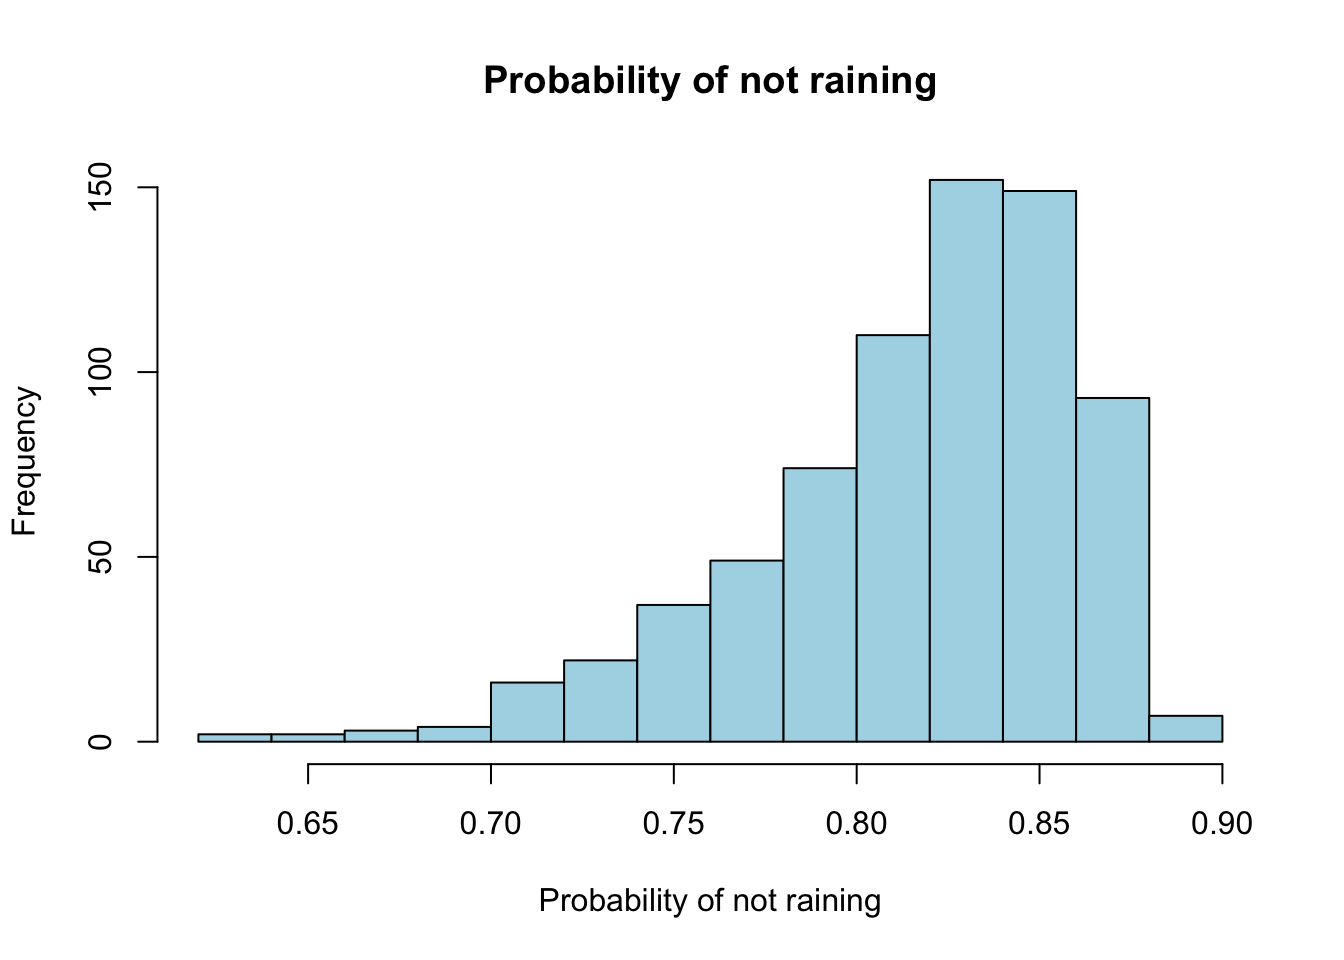
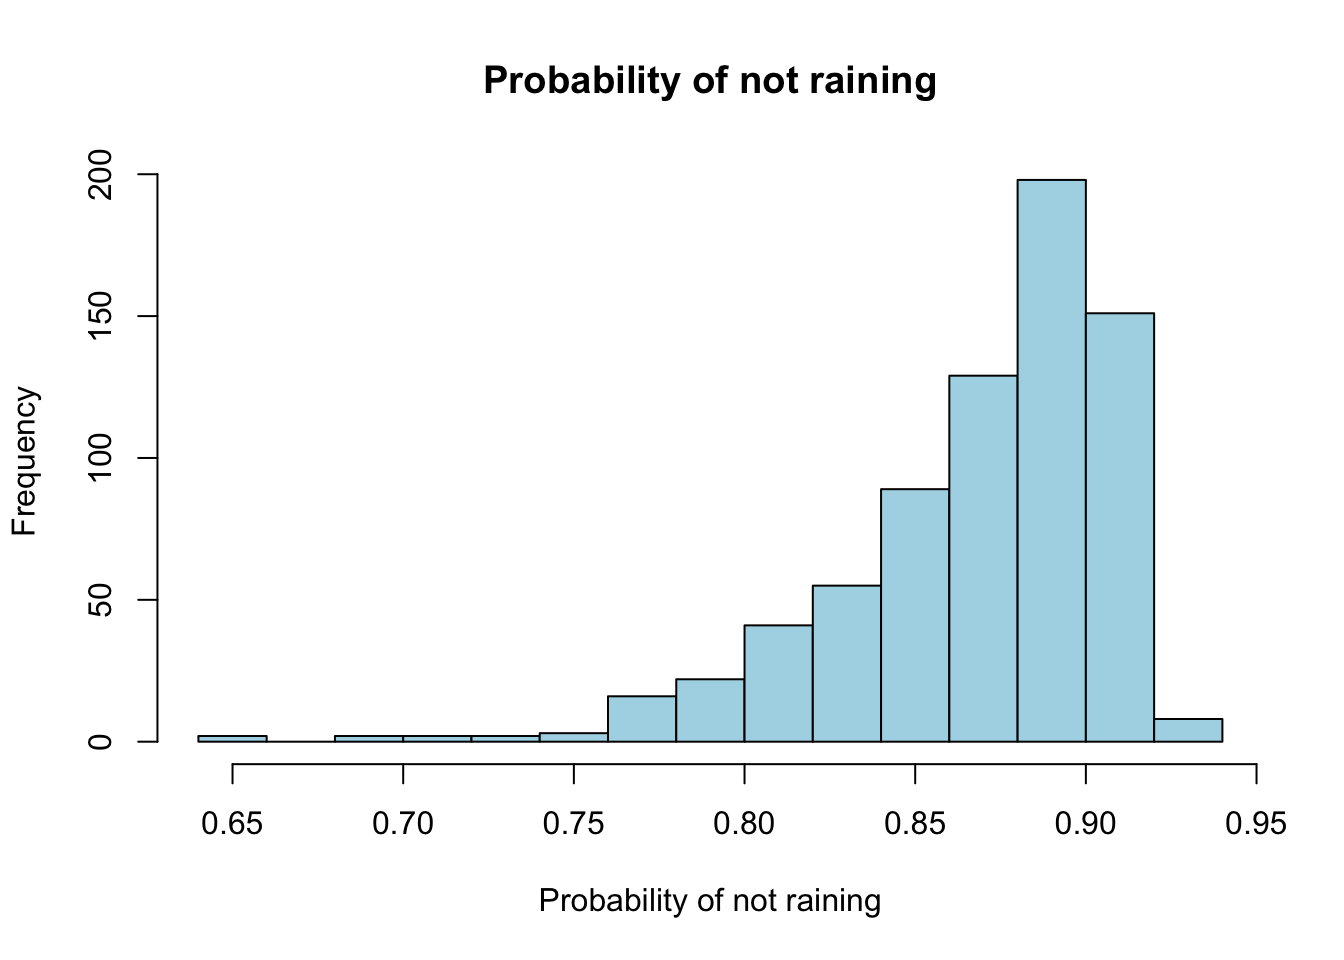
update final report

diff --git a/docs/STAT6393V/week-05/index.html b/docs/STAT6393V/week-05/index.html
@@ -472,29 +472,30 @@ This warning is displayed once per session.</code></pre>
 <span id="cb18-50"><a href="#cb18-50" aria-hidden="true" tabindex="-1"></a></span>
 <span id="cb18-51"><a href="#cb18-51" aria-hidden="true" tabindex="-1"></a>best_model <span class="ot">&lt;-</span> model_selection[<span class="dv">1</span>, ]</span>
 <span id="cb18-52"><a href="#cb18-52" aria-hidden="true" tabindex="-1"></a>best_model_name <span class="ot">&lt;-</span> best_model<span class="sc">$</span>model</span>
-<span id="cb18-53"><a href="#cb18-53" aria-hidden="true" tabindex="-1"></a>model <span class="ot">&lt;-</span> models[[best_model_name]]<span class="sc">$</span>fit</span>
-<span id="cb18-54"><a href="#cb18-54" aria-hidden="true" tabindex="-1"></a></span>
-<span id="cb18-55"><a href="#cb18-55" aria-hidden="true" tabindex="-1"></a>selection_sentence <span class="ot">&lt;-</span> <span class="fu">sprintf</span>(</span>
-<span id="cb18-56"><a href="#cb18-56" aria-hidden="true" tabindex="-1"></a>  <span class="fu">paste0</span>(</span>
-<span id="cb18-57"><a href="#cb18-57" aria-hidden="true" tabindex="-1"></a>    <span class="st">"The best model is %s, with %s hidden layers, %s neurons per layer, "</span>,</span>
-<span id="cb18-58"><a href="#cb18-58" aria-hidden="true" tabindex="-1"></a>    <span class="st">"%s epochs, and a batch size of %s. It was selected because it had "</span>,</span>
-<span id="cb18-59"><a href="#cb18-59" aria-hidden="true" tabindex="-1"></a>    <span class="st">"the smallest test-set negative log-likelihood (%.2f), which means "</span>,</span>
-<span id="cb18-60"><a href="#cb18-60" aria-hidden="true" tabindex="-1"></a>    <span class="st">"it assigned the highest probability to the observed precipitation "</span>,</span>
-<span id="cb18-61"><a href="#cb18-61" aria-hidden="true" tabindex="-1"></a>    <span class="st">"values in the testing set."</span></span>
-<span id="cb18-62"><a href="#cb18-62" aria-hidden="true" tabindex="-1"></a>  ),</span>
-<span id="cb18-63"><a href="#cb18-63" aria-hidden="true" tabindex="-1"></a>  best_model<span class="sc">$</span>model,</span>
-<span id="cb18-64"><a href="#cb18-64" aria-hidden="true" tabindex="-1"></a>  best_model<span class="sc">$</span>hidden_layers,</span>
-<span id="cb18-65"><a href="#cb18-65" aria-hidden="true" tabindex="-1"></a>  best_model<span class="sc">$</span>neurons_per_layer,</span>
-<span id="cb18-66"><a href="#cb18-66" aria-hidden="true" tabindex="-1"></a>  best_model<span class="sc">$</span>epochs,</span>
-<span id="cb18-67"><a href="#cb18-67" aria-hidden="true" tabindex="-1"></a>  best_model<span class="sc">$</span>batchsize,</span>
-<span id="cb18-68"><a href="#cb18-68" aria-hidden="true" tabindex="-1"></a>  best_model<span class="sc">$</span>test_nll</span>
-<span id="cb18-69"><a href="#cb18-69" aria-hidden="true" tabindex="-1"></a>)</span>
-<span id="cb18-70"><a href="#cb18-70" aria-hidden="true" tabindex="-1"></a></span>
-<span id="cb18-71"><a href="#cb18-71" aria-hidden="true" tabindex="-1"></a>knitr<span class="sc">::</span><span class="fu">kable</span>(</span>
-<span id="cb18-72"><a href="#cb18-72" aria-hidden="true" tabindex="-1"></a>  model_selection,</span>
-<span id="cb18-73"><a href="#cb18-73" aria-hidden="true" tabindex="-1"></a>  <span class="at">digits =</span> <span class="dv">3</span>,</span>
-<span id="cb18-74"><a href="#cb18-74" aria-hidden="true" tabindex="-1"></a>  <span class="at">caption =</span> <span class="st">"Model comparison using test-set log-likelihood. Models are ranked from best to worst by test negative log-likelihood."</span></span>
-<span id="cb18-75"><a href="#cb18-75" aria-hidden="true" tabindex="-1"></a>)</span></code><button title="Copy to Clipboard" class="code-copy-button"><i class="bi"></i></button></pre></div>
+<span id="cb18-53"><a href="#cb18-53" aria-hidden="true" tabindex="-1"></a>best_model_fit <span class="ot">&lt;-</span> models[[best_model_name]]<span class="sc">$</span>fit</span>
+<span id="cb18-54"><a href="#cb18-54" aria-hidden="true" tabindex="-1"></a>model <span class="ot">&lt;-</span> best_model_fit</span>
+<span id="cb18-55"><a href="#cb18-55" aria-hidden="true" tabindex="-1"></a></span>
+<span id="cb18-56"><a href="#cb18-56" aria-hidden="true" tabindex="-1"></a>selection_sentence <span class="ot">&lt;-</span> <span class="fu">sprintf</span>(</span>
+<span id="cb18-57"><a href="#cb18-57" aria-hidden="true" tabindex="-1"></a>  <span class="fu">paste0</span>(</span>
+<span id="cb18-58"><a href="#cb18-58" aria-hidden="true" tabindex="-1"></a>    <span class="st">"The best model is %s, with %s hidden layers, %s neurons per layer, "</span>,</span>
+<span id="cb18-59"><a href="#cb18-59" aria-hidden="true" tabindex="-1"></a>    <span class="st">"%s epochs, and a batch size of %s. It was selected because it had "</span>,</span>
+<span id="cb18-60"><a href="#cb18-60" aria-hidden="true" tabindex="-1"></a>    <span class="st">"the smallest test-set negative log-likelihood (%.2f), which means "</span>,</span>
+<span id="cb18-61"><a href="#cb18-61" aria-hidden="true" tabindex="-1"></a>    <span class="st">"it assigned the highest probability to the observed precipitation "</span>,</span>
+<span id="cb18-62"><a href="#cb18-62" aria-hidden="true" tabindex="-1"></a>    <span class="st">"values in the testing set."</span></span>
+<span id="cb18-63"><a href="#cb18-63" aria-hidden="true" tabindex="-1"></a>  ),</span>
+<span id="cb18-64"><a href="#cb18-64" aria-hidden="true" tabindex="-1"></a>  best_model<span class="sc">$</span>model,</span>
+<span id="cb18-65"><a href="#cb18-65" aria-hidden="true" tabindex="-1"></a>  best_model<span class="sc">$</span>hidden_layers,</span>
+<span id="cb18-66"><a href="#cb18-66" aria-hidden="true" tabindex="-1"></a>  best_model<span class="sc">$</span>neurons_per_layer,</span>
+<span id="cb18-67"><a href="#cb18-67" aria-hidden="true" tabindex="-1"></a>  best_model<span class="sc">$</span>epochs,</span>
+<span id="cb18-68"><a href="#cb18-68" aria-hidden="true" tabindex="-1"></a>  best_model<span class="sc">$</span>batchsize,</span>
+<span id="cb18-69"><a href="#cb18-69" aria-hidden="true" tabindex="-1"></a>  best_model<span class="sc">$</span>test_nll</span>
+<span id="cb18-70"><a href="#cb18-70" aria-hidden="true" tabindex="-1"></a>)</span>
+<span id="cb18-71"><a href="#cb18-71" aria-hidden="true" tabindex="-1"></a></span>
+<span id="cb18-72"><a href="#cb18-72" aria-hidden="true" tabindex="-1"></a>knitr<span class="sc">::</span><span class="fu">kable</span>(</span>
+<span id="cb18-73"><a href="#cb18-73" aria-hidden="true" tabindex="-1"></a>  model_selection,</span>
+<span id="cb18-74"><a href="#cb18-74" aria-hidden="true" tabindex="-1"></a>  <span class="at">digits =</span> <span class="dv">3</span>,</span>
+<span id="cb18-75"><a href="#cb18-75" aria-hidden="true" tabindex="-1"></a>  <span class="at">caption =</span> <span class="st">"Model comparison using test-set log-likelihood. Models are ranked from best to worst by test negative log-likelihood."</span></span>
+<span id="cb18-76"><a href="#cb18-76" aria-hidden="true" tabindex="-1"></a>)</span></code><button title="Copy to Clipboard" class="code-copy-button"><i class="bi"></i></button></pre></div>
 <div class="cell-output-display">
 <table class="caption-top table table-sm table-striped small">
 <caption>Model comparison using test-set log-likelihood. Models are ranked from best to worst by test negative log-likelihood.</caption>
@@ -533,12 +534,12 @@ This warning is displayed once per session.</code></pre>
 <td style="text-align: right;">100</td>
 <td style="text-align: right;">300</td>
 <td style="text-align: right;">10</td>
-<td style="text-align: right;">6.395</td>
-<td style="text-align: right;">6.584</td>
-<td style="text-align: right;">63</td>
-<td style="text-align: right;">-382.796</td>
-<td style="text-align: right;">382.796</td>
-<td style="text-align: right;">0.532</td>
+<td style="text-align: right;">6.408</td>
+<td style="text-align: right;">6.467</td>
+<td style="text-align: right;">1</td>
+<td style="text-align: right;">-376.141</td>
+<td style="text-align: right;">376.141</td>
+<td style="text-align: right;">0.522</td>
 </tr>
 <tr class="even">
 <td style="text-align: left;">model4</td>
@@ -546,12 +547,12 @@ This warning is displayed once per session.</code></pre>
 <td style="text-align: right;">100</td>
 <td style="text-align: right;">100</td>
 <td style="text-align: right;">12</td>
-<td style="text-align: right;">7.895</td>
-<td style="text-align: right;">7.559</td>
-<td style="text-align: right;">93</td>
-<td style="text-align: right;">-383.844</td>
-<td style="text-align: right;">383.844</td>
-<td style="text-align: right;">0.533</td>
+<td style="text-align: right;">7.877</td>
+<td style="text-align: right;">7.548</td>
+<td style="text-align: right;">86</td>
+<td style="text-align: right;">-376.668</td>
+<td style="text-align: right;">376.668</td>
+<td style="text-align: right;">0.523</td>
 </tr>
 <tr class="odd">
 <td style="text-align: left;">model1</td>
@@ -559,12 +560,12 @@ This warning is displayed once per session.</code></pre>
 <td style="text-align: right;">50</td>
 <td style="text-align: right;">100</td>
 <td style="text-align: right;">25</td>
-<td style="text-align: right;">16.673</td>
-<td style="text-align: right;">13.205</td>
-<td style="text-align: right;">97</td>
-<td style="text-align: right;">-393.501</td>
-<td style="text-align: right;">393.501</td>
-<td style="text-align: right;">0.547</td>
+<td style="text-align: right;">16.620</td>
+<td style="text-align: right;">13.215</td>
+<td style="text-align: right;">84</td>
+<td style="text-align: right;">-383.704</td>
+<td style="text-align: right;">383.704</td>
+<td style="text-align: right;">0.533</td>
 </tr>
 <tr class="even">
 <td style="text-align: left;">model2</td>
@@ -572,18 +573,18 @@ This warning is displayed once per session.</code></pre>
 <td style="text-align: right;">50</td>
 <td style="text-align: right;">100</td>
 <td style="text-align: right;">25</td>
-<td style="text-align: right;">16.878</td>
-<td style="text-align: right;">12.313</td>
-<td style="text-align: right;">87</td>
-<td style="text-align: right;">-396.708</td>
-<td style="text-align: right;">396.708</td>
-<td style="text-align: right;">0.551</td>
+<td style="text-align: right;">16.855</td>
+<td style="text-align: right;">12.346</td>
+<td style="text-align: right;">7</td>
+<td style="text-align: right;">-388.310</td>
+<td style="text-align: right;">388.310</td>
+<td style="text-align: right;">0.539</td>
 </tr>
 </tbody>
 </table>
 </div>
 </div>
-<p>The best model is model3, with 2 hidden layers, 100 neurons per layer, 300 epochs, and a batch size of 10. It was selected because it had the smallest test-set negative log-likelihood (382.80), which means it assigned the highest probability to the observed precipitation values in the testing set. This fitted model is used for the validation plots and scientific questions below.</p>
+<p>The best model is model3, with 2 hidden layers, 100 neurons per layer, 300 epochs, and a batch size of 10. It was selected because it had the smallest test-set negative log-likelihood (376.14), which means it assigned the highest probability to the observed precipitation values in the testing set. This fitted model is used for the validation plots and scientific questions below.</p>
 <ul>
 <li>Interpretations:</li>
 </ul>
@@ -634,7 +635,7 @@ Part 3: Model Validation
 <span id="cb19-3"><a href="#cb19-3" aria-hidden="true" tabindex="-1"></a>Brier_Score <span class="ot">=</span> <span class="fu">mean</span>(((<span class="dv">1</span><span class="sc">-</span>pi0_hat) <span class="sc">-</span> binary_rain_data<span class="sc">$</span>y)<span class="sc">^</span><span class="dv">2</span>)</span>
 <span id="cb19-4"><a href="#cb19-4" aria-hidden="true" tabindex="-1"></a><span class="fu">print</span>(Brier_Score)</span></code><button title="Copy to Clipboard" class="code-copy-button"><i class="bi"></i></button></pre></div>
 <div class="cell-output cell-output-stdout">
-<pre><code>[1] 0.1094227</code></pre>
+<pre><code>[1] 0.1054251</code></pre>
 </div>
 </div>
 <p>We got a score equal to 0.139, a relatively small value, which indicates that the model performs reasonably well.</p>
@@ -645,7 +646,7 @@ Part 3: Model Validation
 <div class="sourceCode cell-code" id="cb21"><pre class="sourceCode r code-with-copy"><code class="sourceCode r"><span id="cb21-1"><a href="#cb21-1" aria-hidden="true" tabindex="-1"></a><span class="co">#Subset for rainy days (y different from 0)</span></span>
 <span id="cb21-2"><a href="#cb21-2" aria-hidden="true" tabindex="-1"></a>rain_test <span class="ot">&lt;-</span> test_df[binary_rain_data<span class="sc">$</span>y <span class="sc">!=</span> <span class="dv">0</span>,]</span>
 <span id="cb21-3"><a href="#cb21-3" aria-hidden="true" tabindex="-1"></a></span>
-<span id="cb21-4"><a href="#cb21-4" aria-hidden="true" tabindex="-1"></a>rain_pred <span class="ot">&lt;-</span> <span class="fu">predict</span>(model, <span class="at">newdata =</span> rain_test)</span>
+<span id="cb21-4"><a href="#cb21-4" aria-hidden="true" tabindex="-1"></a>rain_pred <span class="ot">&lt;-</span> <span class="fu">predict</span>(best_model_fit, <span class="at">newdata =</span> rain_test)</span>
 <span id="cb21-5"><a href="#cb21-5" aria-hidden="true" tabindex="-1"></a></span>
 <span id="cb21-6"><a href="#cb21-6" aria-hidden="true" tabindex="-1"></a>alpha <span class="ot">&lt;-</span> <span class="fu">exp</span>(rain_pred[,<span class="dv">2</span>])</span>
 <span id="cb21-7"><a href="#cb21-7" aria-hidden="true" tabindex="-1"></a>beta <span class="ot">&lt;-</span> <span class="fu">exp</span>(rain_pred[,<span class="dv">3</span>])</span>
@@ -678,7 +679,7 @@ Part 3: Model Validation
 <span id="cb22-3"><a href="#cb22-3" aria-hidden="true" tabindex="-1"></a>    coverage <span class="ot">=</span> coverage <span class="sc">+</span> <span class="dv">1</span>}</span>
 <span id="cb22-4"><a href="#cb22-4" aria-hidden="true" tabindex="-1"></a>    <span class="fu">print</span>(coverage<span class="sc">/</span>n)</span></code><button title="Copy to Clipboard" class="code-copy-button"><i class="bi"></i></button></pre></div>
 <div class="cell-output cell-output-stdout">
-<pre><code>[1] 0.8409091</code></pre>
+<pre><code>[1] 0.875</code></pre>
 </div>
 </div>
 <p>The resulting value for the RMSE was 2.248. Given the scale of the data, this value is not particularly low, however some reasonably outlying behavior was observed for some data points, which likely inflated some of the residuals, driving up the RMSE.</p>
@@ -718,7 +719,7 @@ Part 4: Scientific Questions
 <div class="sourceCode cell-code" id="cb26"><pre class="sourceCode r code-with-copy"><code class="sourceCode r"><span id="cb26-1"><a href="#cb26-1" aria-hidden="true" tabindex="-1"></a>wholey <span class="ot">&lt;-</span> wholedata<span class="sc">$</span>pr</span>
 <span id="cb26-2"><a href="#cb26-2" aria-hidden="true" tabindex="-1"></a>wholex <span class="ot">&lt;-</span> wholedata<span class="sc">$</span>tmax</span>
 <span id="cb26-3"><a href="#cb26-3" aria-hidden="true" tabindex="-1"></a>whole_df <span class="ot">&lt;-</span> <span class="fu">data.frame</span>(<span class="at">x =</span> wholex, <span class="at">y =</span> wholey)</span>
-<span id="cb26-4"><a href="#cb26-4" aria-hidden="true" tabindex="-1"></a>whole_pred <span class="ot">&lt;-</span> <span class="fu">predict</span>(model, <span class="at">newdata =</span> whole_df)</span>
+<span id="cb26-4"><a href="#cb26-4" aria-hidden="true" tabindex="-1"></a>whole_pred <span class="ot">&lt;-</span> <span class="fu">predict</span>(best_model_fit, <span class="at">newdata =</span> whole_df)</span>
 <span id="cb26-5"><a href="#cb26-5" aria-hidden="true" tabindex="-1"></a>pi_whole <span class="ot">&lt;-</span> <span class="fu">plogis</span>(whole_pred[, <span class="dv">1</span>])</span>
 <span id="cb26-6"><a href="#cb26-6" aria-hidden="true" tabindex="-1"></a><span class="fu">plot</span>(pi_whole, whole_df<span class="sc">$</span>x, <span class="at">xlab =</span> <span class="st">"Probability of no rainfall"</span>, <span class="at">ylab =</span> <span class="st">"Temperature"</span>)</span></code><button title="Copy to Clipboard" class="code-copy-button"><i class="bi"></i></button></pre></div>
 <div class="cell-output-display">
